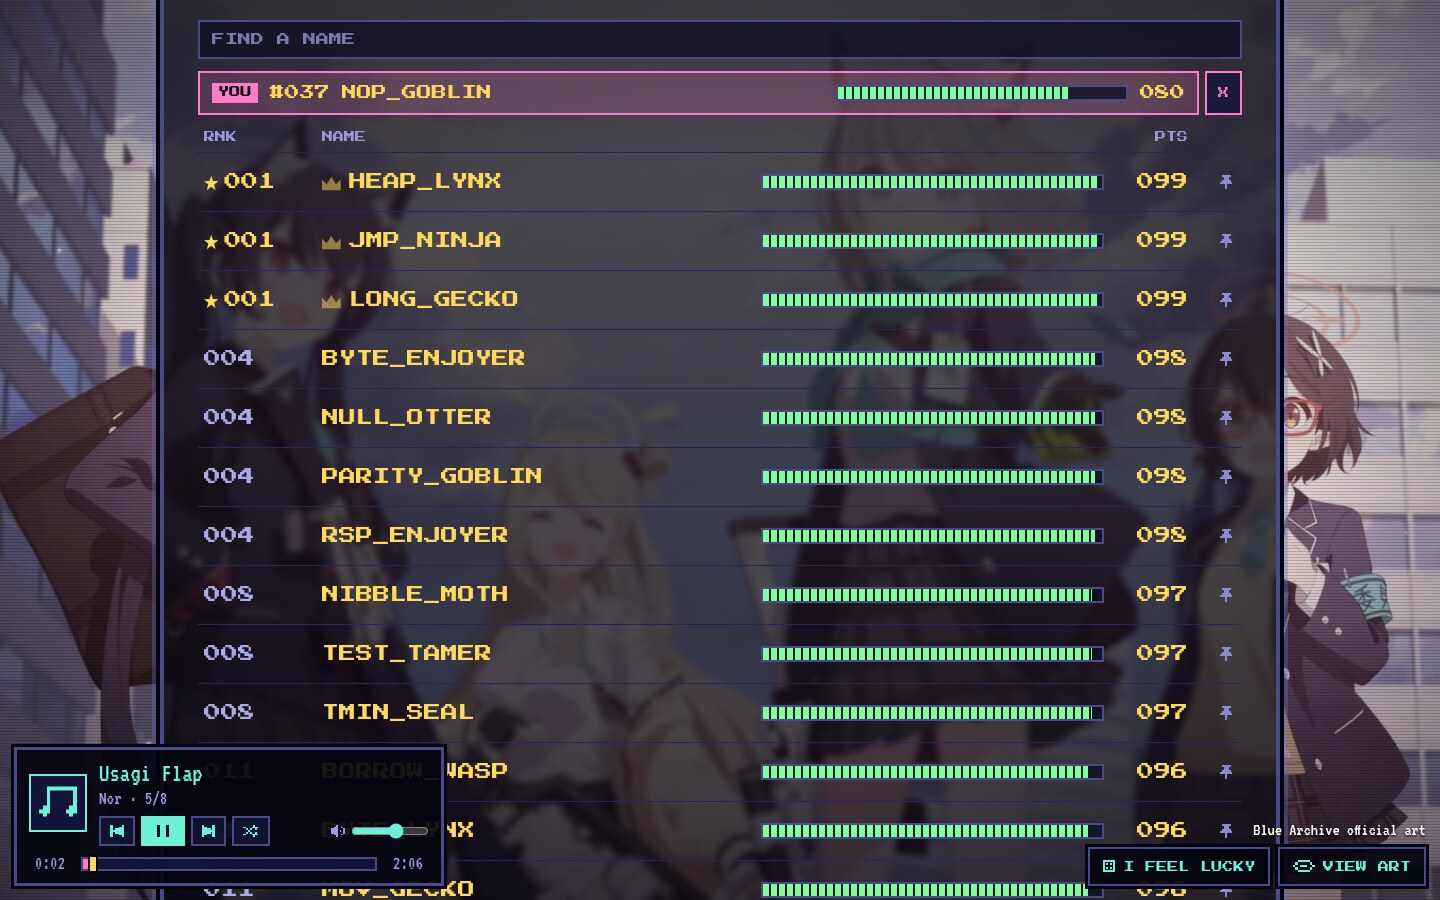
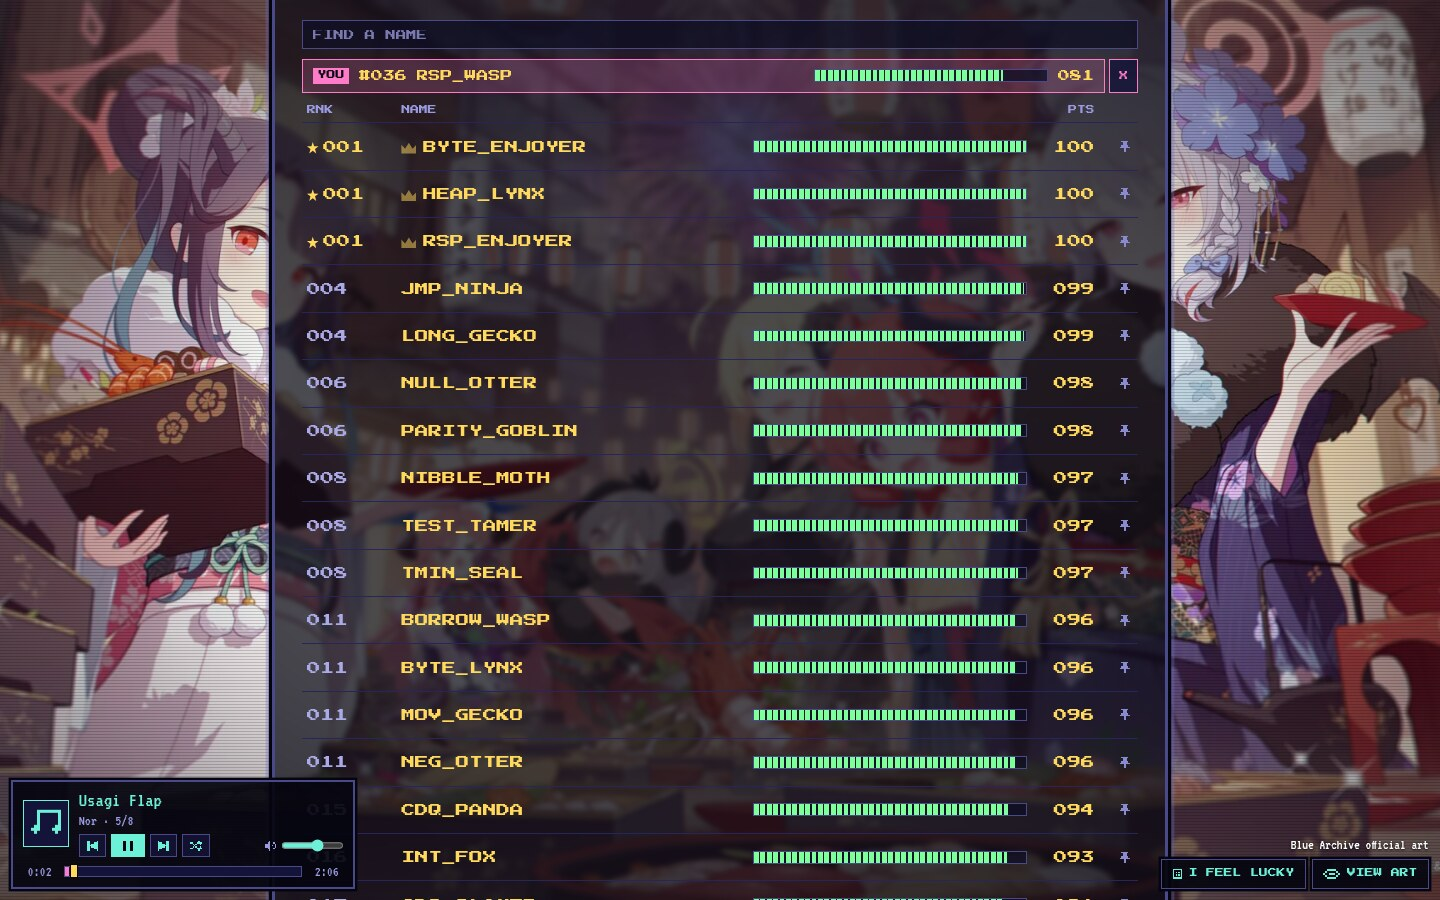
style: render the desktop UI at 80% by default
Scale the board, player card, and action buttons with CSS zoom
(--ui-scale: 0.8) on screens wider than 760 px so the default view
matches 80% browser zoom; the background stays full-screen and phones
are unchanged. On 1920x1080 the result matches the page at 80% browser
zoom within 2 px (board 896 px, title 63 px, rows 47 px, 15 rows
visible), and pointer input on pins, buttons, and the time slider still
lands correctly. Screenshots are refreshed.

diff --git a/frontend/src/styles.css b/frontend/src/styles.css
@@ -14,6 +14,8 @@
   --glass: 0.7;
   /* Shared by the title and the countdown so both are always the same size. */
   --display-size: clamp(22px, 4.7vw, 58px);
+  /* Desktop UI scale. 0.8 matches viewing the page at 80% browser zoom; the background is not scaled. */
+  --ui-scale: 0.8;
   color-scheme: dark;
 }
 
@@ -174,6 +176,10 @@ tr.hit { animation: flash 0.9s steps(6); }
 .actions button { display: flex; align-items: center; gap: 8px; background: #05050fec; color: var(--cyan); padding: 11px 13px; box-shadow: 0 0 0 3px var(--ink); }
 .actions button[aria-pressed="true"] { background: var(--cyan); color: var(--ink); border-color: var(--cyan); }
 .credit { margin: 0; font: 18px var(--vt); color: #fff; text-shadow: 0 1px 3px #000; }
+
+@media (min-width: 761px) {
+  .cab, .player, .actions { zoom: var(--ui-scale); }
+}
 
 @media (max-width: 760px) {
   .cab { margin-bottom: 300px; }

diff --git a/frontend/README.md b/frontend/README.md
@@ -97,6 +97,9 @@ Background art and music are usually copyrighted. Credit the artist in
   once it has loaded. A track that fails to load is skipped.
 - Volume, shuffle, the collapsed player, and the remembered name are stored in
   the browser only.
+- On screens wider than 760 px the board, player, and buttons are drawn at 80%,
+  matching 80% browser zoom, while the background stays full size. Change
+  `--ui-scale` in `src/styles.css` to adjust it.
 
 | Key | Action |
 | --- | --- |
